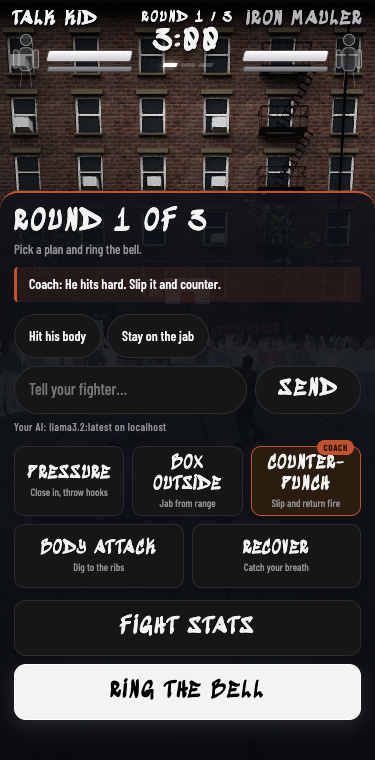
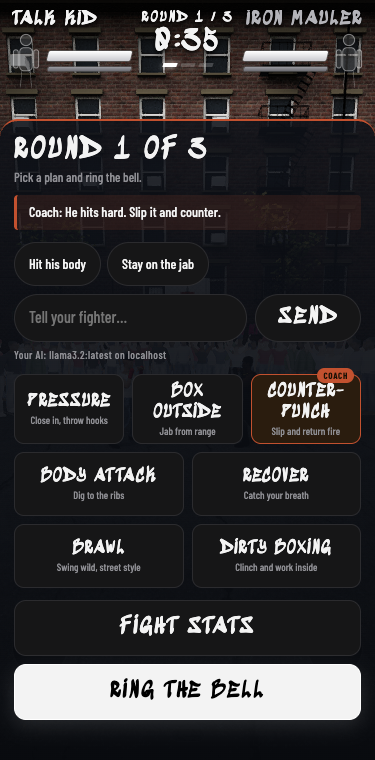
Corner talk with your own AI (BOX-23)

diff --git a/corner-ai.js b/corner-ai.js
@@ -3,7 +3,7 @@
 // a plan always resolves to one of the sim's existing tactic keys, chosen at the round break like a button press, so
 // determinism and P2P lockstep are untouched. No model of ours, no key of ours, no server of ours.
 
-export const TACTIC_KEYS = ['pressure', 'outbox', 'counter', 'body_attack', 'recover'];
+export const TACTIC_KEYS = ['pressure', 'outbox', 'counter', 'body_attack', 'recover', 'brawl', 'dirty_boxing'];
 export const FOCUSES = ['none', 'head', 'body'];
 export const AGGRESSIONS = ['low', 'normal', 'high'];
 export const SAY_MAX = 140;
@@ -80,6 +80,8 @@ export function parseBubbles(text) {
 
 const RULES = [
   { re: /\b(recover|rest|breathe|breather|catch your breath|slow down|relax|calm down|tired|gassed|save (your )?(energy|gas))\b/, plan: { tactic: 'recover', focus: 'none', aggression: 'low' } },
+  { re: /\b(brawl|street fight|swing|swinging|haymakers?|overhands?|go wild|throw bombs|slug|slugfest|war)\b/, plan: { tactic: 'brawl', focus: 'head', aggression: 'high' } },
+  { re: /\b(dirty|clinch|tie him up|smother|shove|rough him|grab|elbows?|inside work|get inside|fight inside)\b/, plan: { tactic: 'dirty_boxing', focus: 'body', aggression: 'normal' } },
   { re: /\b(protect|cover|defen[cs]e|defend|guard|hands up|keep your hands|shell|block|survive)\b.*\b(body|ribs|liver|gut|stomach)\b|\b(body|ribs|liver|gut)\b.*\b(protect|cover|defen[cs]e|guard|hands)\b/, plan: { tactic: 'counter', focus: 'body', aggression: 'low' } },
   { re: /\b(body|ribs|liver|gut|stomach|midsection)\b/, plan: { tactic: 'body_attack', focus: 'body', aggression: 'high' } },
   { re: /\b(counter|slip|wait for|patient|patience|make him miss|bait|let him come|return fire)\b/, plan: { tactic: 'counter', focus: 'none', aggression: 'low' } },
@@ -93,6 +95,8 @@ const SAYS = {
   counter: ['Let him come. Slip and fire back.', 'Be patient. Make him miss.'],
   body_attack: ['Dig to the ribs. Break him down.', 'Go downstairs, then up top.'],
   pressure: ['Walk him down. Throw the hooks.', 'Press him. Do not let him breathe.'],
+  brawl: ['Swing for the fences. This is a street fight.', 'Throw bombs. Make it ugly.'],
+  dirty_boxing: ['Get inside, tie him up, work close.', 'Smother him. Rough him up inside.'],
 };
 const sayFor = (plan, round) => SAYS[plan.tactic][(round ?? 0) % SAYS[plan.tactic].length];
 
@@ -166,6 +170,8 @@ export const TACTIC_HELP = {
   counter: 'defend first, slip and return fire, low output',
   body_attack: 'work the body with hooks and body shots',
   recover: 'low output at long range to win back stamina',
+  brawl: 'wild street fight: overhands, haymakers, shoves and taunts, high output',
+  dirty_boxing: 'fight at close quarters: clinch, shove, short uppercuts and body hooks',
 };
 
 export function plannerMessages(ctx, playerText) {

diff --git a/flow.js b/flow.js
@@ -154,6 +154,8 @@ export const TACTIC_BLURB = {
   counter: 'Slip and return fire',
   body_attack: 'Dig to the ribs',
   recover: 'Catch your breath',
+  brawl: 'Swing wild, street style',
+  dirty_boxing: 'Clinch and work inside',
 };
 
 // ─── Settings ───────────────────────────────────────────────────────────────
